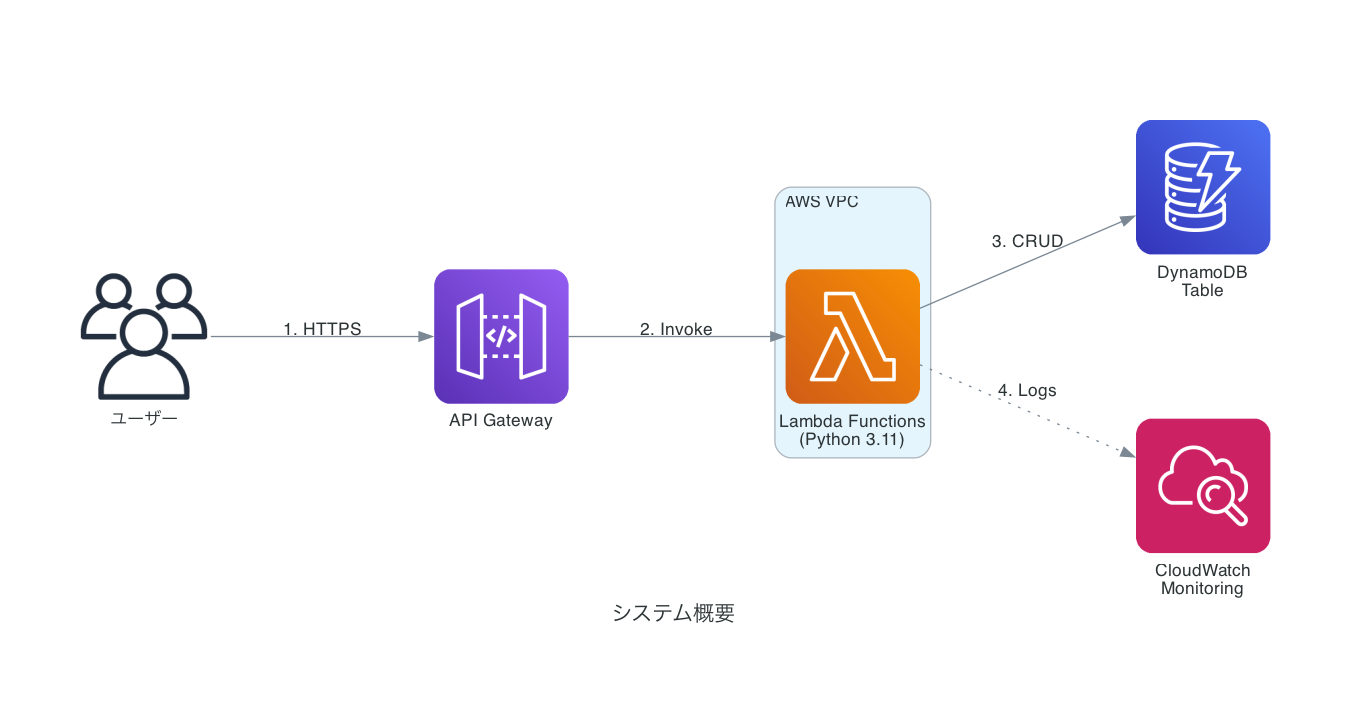
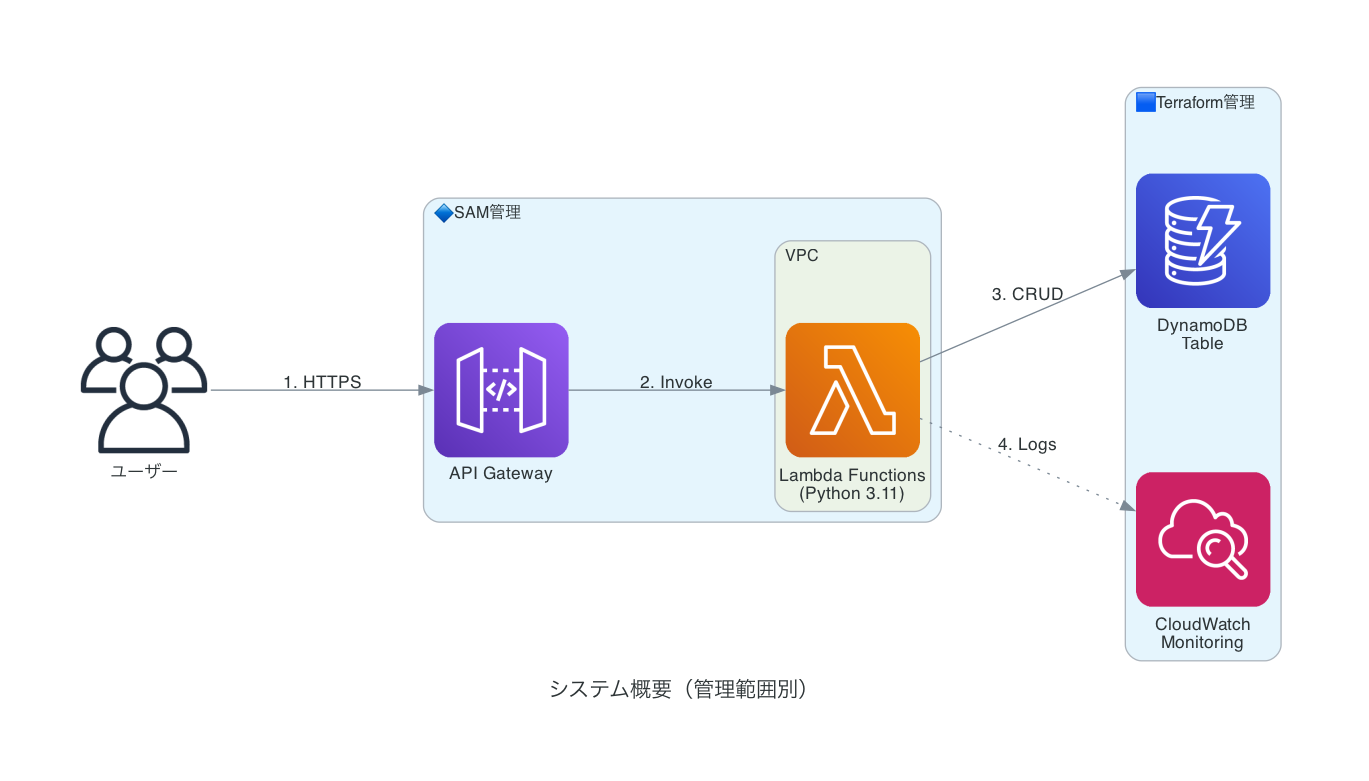
feat: Add team-based responsibility separation and management scope
Major updates for security and team collaboration:

QIITA_ARTICLE.md updates:
- Add detailed section on team-based responsibility separation
- Explain secure IaC management benefits
- Infrastructure team: Terraform for network, data, IAM (low frequency)
- App development team: SAM for Lambda, API Gateway (high frequency)
- Add 5 key security benefits with examples
- Show GitHub Actions permission separation example
- Update introduction with core benefits

Architecture diagrams updates:
- Add management scope indicators (🔷 SAM / 🟦 Terraform)
- Label each resource with "※Terraform" or "※SAM"
- architecture_simple.png: Clear separation of SAM and Terraform clusters
- architecture.png: Full scope with VPC, Lambda, data layer separation
- dataflow.png: Layer-based view with management annotations

Key improvements:
- Visual clarity on who manages what
- Security through separation of concerns
- Faster development with appropriate permissions
- Better compliance and audit trail

This addresses the core value proposition: secure IaC management
through appropriate team-based responsibility separation.

🤖 Generated with [Claude Code](https://claude.com/claude-code)

Changed region(s): [[0.0624, 0.0935, 0.9666, 0.8725], [0.4053, 0.8414, 0.5924, 0.9037]]

diff --git a/scripts/generate_diagrams.py b/scripts/generate_diagrams.py
@@ -39,9 +39,9 @@ edge_attr = {
     "fontsize": "11",
 }
 
-# メインアーキテクチャ図 - より綺麗なレイアウト
+# メインアーキテクチャ図 - Terraform/SAM管理範囲を明示
 with Diagram(
-    "Terraform + SAM アーキテクチャ",
+    "Terraform + SAM アーキテクチャ（管理範囲明示）",
     filename=str(output_dir / "architecture"),
     direction="LR",
     graph_attr=graph_attr,
@@ -53,33 +53,35 @@ with Diagram(
     with Cluster("クライアント"):
         users = Users("ユーザー")
 
-    with Cluster("API層"):
-        apigw = APIGateway("API Gateway")
+    with Cluster("🔷 SAM管理範囲"):
+        with Cluster("API層"):
+            apigw = APIGateway("API Gateway\n※SAM")
 
-    with Cluster("VPC: 10.0.0.0/16"):
-        with Cluster("Private Subnet - Lambda"):
-            lambda_api = Lambda("API Function\n(ARM64, 256MB)")
-            lambda_processor = Lambda("Stream Processor\n(ARM64, 256MB)")
-            lambda_scheduled = Lambda("Scheduled Task\n(ARM64, 256MB)")
+        with Cluster("Lambda Functions"):
+            lambda_api = Lambda("API Function\n(ARM64, 256MB)\n※SAM")
+            lambda_processor = Lambda("Stream Processor\n(ARM64, 256MB)\n※SAM")
+            lambda_scheduled = Lambda("Scheduled Task\n(ARM64, 256MB)\n※SAM")
 
-        with Cluster("Public Subnet - NAT"):
-            nat_gw = NATGateway("NAT Gateway\n(Multi-AZ)")
+        with Cluster("イベント"):
+            eventbridge = Eventbridge("EventBridge\nCron Trigger\n※SAM")
 
-        with Cluster("VPC Endpoints"):
-            vpc_ddb = Endpoint("DynamoDB\nEndpoint")
-            vpc_s3 = Endpoint("S3\nEndpoint")
+    with Cluster("🟦 Terraform管理範囲"):
+        with Cluster("VPC: 10.0.0.0/16"):
+            with Cluster("Public Subnet - NAT"):
+                nat_gw = NATGateway("NAT Gateway\n(Multi-AZ)\n※Terraform")
 
-    with Cluster("データ層"):
-        dynamodb = Dynamodb("DynamoDB\nSingle Table")
+            with Cluster("VPC Endpoints"):
+                vpc_ddb = Endpoint("DynamoDB\nEndpoint\n※Terraform")
+                vpc_s3 = Endpoint("S3\nEndpoint\n※Terraform")
 
-    with Cluster("ストレージ"):
-        s3 = S3("S3 Bucket\nArtifacts")
+        with Cluster("データ層"):
+            dynamodb = Dynamodb("DynamoDB\nSingle Table\n※Terraform")
 
-    with Cluster("監視"):
-        cloudwatch = Cloudwatch("CloudWatch\nLogs & Metrics")
+        with Cluster("ストレージ"):
+            s3 = S3("S3 Bucket\nArtifacts\n※Terraform")
 
-    with Cluster("スケジューラー"):
-        eventbridge = Eventbridge("EventBridge\nCron Trigger")
+        with Cluster("監視基盤"):
+            cloudwatch = Cloudwatch("CloudWatch\nLogs & Metrics\n※Terraform")
 
     # メインフロー
     users >> Edge(color="darkblue", style="bold", label="HTTPS") >> apigw
@@ -103,9 +105,9 @@ with Diagram(
     vpc_s3 >> Edge(style="dashed") >> s3
     nat_gw >> Edge(color="gray", style="dotted", label="Internet") >> cloudwatch
 
-# シンプルな図（README用） - クリーンなレイアウト
+# シンプルな図（README用） - 管理範囲を明示
 with Diagram(
-    "システム概要",
+    "システム概要（管理範囲別）",
     filename=str(output_dir / "architecture_simple"),
     direction="LR",
     graph_attr={**graph_attr, "splines": "spline", "ranksep": "1.5"},
@@ -115,22 +117,25 @@ with Diagram(
     outformat="png"
 ):
     users = Users("ユーザー")
-    apigw = APIGateway("API Gateway")
 
-    with Cluster("AWS VPC"):
-        lambdas = Lambda("Lambda Functions\n(Python 3.11)")
+    with Cluster("🔷 SAM管理"):
+        apigw = APIGateway("API Gateway")
 
-    dynamodb = Dynamodb("DynamoDB\nTable")
-    cloudwatch = Cloudwatch("CloudWatch\nMonitoring")
+        with Cluster("VPC"):
+            lambdas = Lambda("Lambda Functions\n(Python 3.11)")
+
+    with Cluster("🟦 Terraform管理"):
+        dynamodb = Dynamodb("DynamoDB\nTable")
+        cloudwatch = Cloudwatch("CloudWatch\nMonitoring")
 
     users >> Edge(label="1. HTTPS") >> apigw
     apigw >> Edge(label="2. Invoke") >> lambdas
     lambdas >> Edge(label="3. CRUD") >> dynamodb
     lambdas >> Edge(label="4. Logs", style="dotted") >> cloudwatch
 
-# 詳細なデータフロー図 - 縦型レイアウト
+# 詳細なデータフロー図 - 管理範囲を明示
 with Diagram(
-    "データフロー詳細",
+    "データフロー詳細（管理範囲別）",
     filename=str(output_dir / "dataflow"),
     direction="TB",
     graph_attr={**graph_attr, "splines": "ortho", "ranksep": "1.2"},
@@ -142,22 +147,24 @@ with Diagram(
     with Cluster("① クライアント層"):
         users = Users("ユーザー")
 
-    with Cluster("② API ゲートウェイ層"):
-        apigw = APIGateway("API Gateway\nREST API")
+    with Cluster("🔷 SAM管理範囲"):
+        with Cluster("② API層"):
+            apigw = APIGateway("API Gateway\nREST API\n※SAM")
 
-    with Cluster("③ アプリケーション層 (VPC)"):
-        lambda_api = Lambda("API Lambda\nCRUD Operations")
-        lambda_processor = Lambda("Stream Processor\nEvent Driven")
-        lambda_scheduled = Lambda("Scheduled Job\nBatch Process")
+        with Cluster("③ Lambda層"):
+            lambda_api = Lambda("API Lambda\nCRUD Operations\n※SAM")
+            lambda_processor = Lambda("Stream Processor\nEvent Driven\n※SAM")
+            lambda_scheduled = Lambda("Scheduled Job\nBatch Process\n※SAM")
 
-    with Cluster("④ データ層"):
-        dynamodb = Dynamodb("DynamoDB\nSingle Table Design")
+        with Cluster("⑤ イベント層"):
+            eventbridge = Eventbridge("EventBridge\nScheduler\n※SAM")
 
-    with Cluster("⑤ イベント層"):
-        eventbridge = Eventbridge("EventBridge\nScheduler")
+    with Cluster("🟦 Terraform管理範囲"):
+        with Cluster("④ データ層"):
+            dynamodb = Dynamodb("DynamoDB\nSingle Table Design\n※Terraform")
 
-    with Cluster("⑥ 監視層"):
-        cloudwatch = Cloudwatch("CloudWatch\nLogs & Alarms")
+        with Cluster("⑥ 監視層"):
+            cloudwatch = Cloudwatch("CloudWatch\nLogs & Alarms\n※Terraform")
 
     # メインAPI フロー
     users >> Edge(color="#1a73e8", style="bold", label="HTTPS Request") >> apigw

diff --git a/docs/QIITA_ARTICLE.md b/docs/QIITA_ARTICLE.md
@@ -2,11 +2,17 @@
 
 ## はじめに
 
-TerraformとAWS SAM（Serverless Application Model）を組み合わせることで、インフラストラクチャとアプリケーションの責務を明確に分離し、保守性の高いサーバーレスアプリケーションを構築できます。
+TerraformとAWS SAM（Serverless Application Model）を組み合わせることで、インフラストラクチャとアプリケーションの責務を明確に分離し、**チーム別の適切な権限管理とセキュアなIaC運用**を実現できます。
+
+### この構成の核心的なメリット
+
+- **アプリ開発者**: SAMで頻繁に更新されるLambda関数を迅速にデプロイ
+- **インフラチーム**: Terraformでネットワークや重要なリソースを厳格に管理
+- **セキュリティ**: 最小権限の原則に基づいた権限分離でリスクを軽減
 
 本記事では、実際に動作する完全なサンプルプロジェクトを通して、以下を解説します：
 
-- **基礎編**: TerraformとSAMの責務分離
+- **基礎編**: TerraformとSAMの責務分離とチーム別権限管理
 - **実践編**: VPC、DynamoDB、複数環境対応の実装
 - **運用編**: モニタリング、トラブルシューティング、CI/CD
 - **検証結果**: 実際のデプロイと動作確認
@@ -43,20 +49,113 @@ https://github.com/higakikeita/test/blob/main/docs/architecture.drawio
 ```
 ┌─────────────────────────────────────┐
 │        Terraform (インフラ層)         │
+│      👷 インフラチームが管理            │
 ├─────────────────────────────────────┤
 │ • VPC / サブネット / セキュリティG     │
 │ • DynamoDB テーブル / IAM ロール      │
 │ • S3 バケット / CloudWatch 設定       │
+│                                     │
+│ 変更頻度: 低 (週次〜月次)              │
+│ 影響範囲: 大 (セキュリティ・ネットワーク) │
 └─────────────────────────────────────┘
               ↓ outputs
 ┌─────────────────────────────────────┐
 │       SAM (アプリケーション層)         │
+│      👨💻 アプリ開発者が管理            │
 ├─────────────────────────────────────┤
 │ • Lambda 関数 / Lambda レイヤー       │
 │ • API Gateway / イベントソース         │
 │ • アプリケーションロジック              │
+│                                     │
+│ 変更頻度: 高 (日次〜時間単位)           │
+│ 影響範囲: 小 (アプリケーション内)       │
 └─────────────────────────────────────┘
 ```
+
+### チーム別の責務分離によるセキュアなIaC管理
+
+この構成の最大のメリットは、**チームの役割に応じた適切な権限分離**が実現できることです。
+
+#### 🏗 インフラチーム（Terraform）
+
+**管理対象:**
+- ネットワーク構成（VPC、サブネット、セキュリティグループ）
+- データストア（DynamoDB、RDS等）
+- IAMロール・ポリシー
+- 監視・ログ基盤（CloudWatch）
+
+**特徴:**
+- 変更頻度が低い（週次〜月次）
+- セキュリティに直接影響する設定
+- 本番環境への影響範囲が大きい
+- レビュープロセスが厳格
+
+**権限:**
+```hcl
+# インフラチームのみが実行可能
+terraform apply -var-file=environments/prod.tfvars
+```
+
+#### 👨💻 アプリケーション開発チーム（SAM）
+
+**管理対象:**
+- Lambda関数のコード
+- API Gatewayの設定
+- Lambda レイヤー
+- イベントソース（DynamoDB Streams、EventBridge）
+
+**特徴:**
+- 変更頻度が高い（日次〜時間単位）
+- アプリケーションロジックの改善・バグ修正
+- インフラへの影響は最小限
+- 迅速なデプロイが可能
+
+**権限:**
+```bash
+# アプリ開発者が自由に実行可能
+sam deploy --stack-name my-app-dev
+```
+
+#### 🔒 セキュアなIaC管理のメリット
+
+1. **最小権限の原則**
+   - アプリ開発者はVPCやIAMを変更できない
+   - インフラチームはアプリの頻繁なデプロイに関与しない
+
+2. **変更管理の分離**
+   - インフラ変更：厳格なレビュー・承認プロセス
+   - アプリ変更：迅速なCI/CDパイプライン
+
+3. **セキュリティリスクの軽減**
+   - 不要な権限昇格を防止
+   - ネットワーク設定への意図しない変更を防止
+   - IAMロールの誤変更を防止
+
+4. **開発速度の向上**
+   - アプリ開発者はインフラを気にせず開発に集中
+   - Lambda関数の更新を待ち時間なくデプロイ
+
+5. **監査・コンプライアンス対応**
+   - 誰が何を変更したか明確
+   - 変更履歴がGitで追跡可能
+   - 環境別の権限管理が容易
+
+#### 実装例：権限分離
+
+```yaml
+# GitHub Actions - インフラデプロイ（main ブランチのみ）
+deploy-infrastructure:
+  if: github.ref == 'refs/heads/main'
+  environment: production
+  # インフラチームのみが承認可能
+
+# GitHub Actions - アプリデプロイ（feature ブランチでも可）
+deploy-application:
+  if: github.ref == 'refs/heads/develop' || github.ref == 'refs/heads/main'
+  # アプリ開発者が自由にデプロイ可能
+```
+
+この構成により、**セキュリティを維持しながら、開発速度を最大化**することができます。
 
 ## アーキテクチャ概要
 
